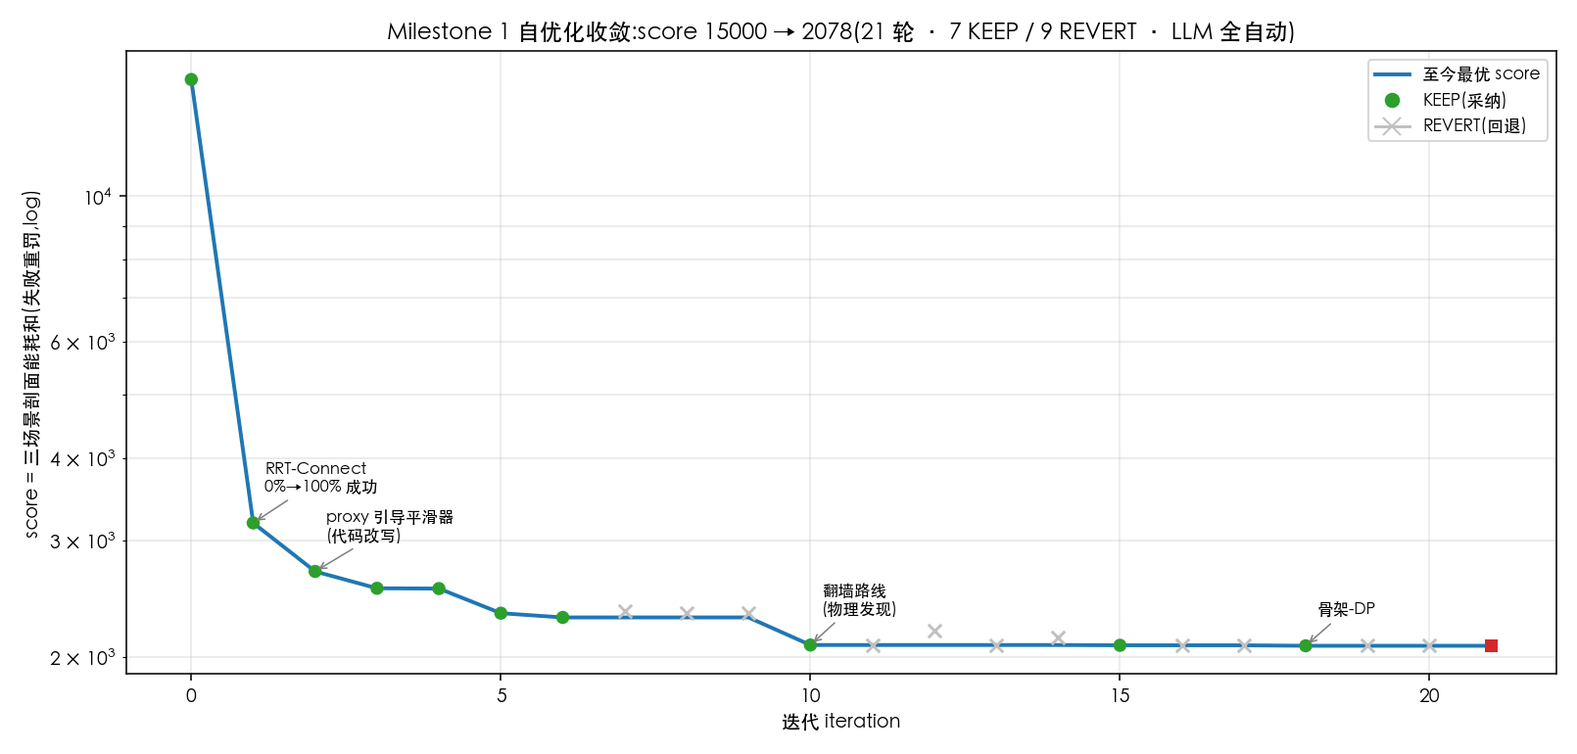
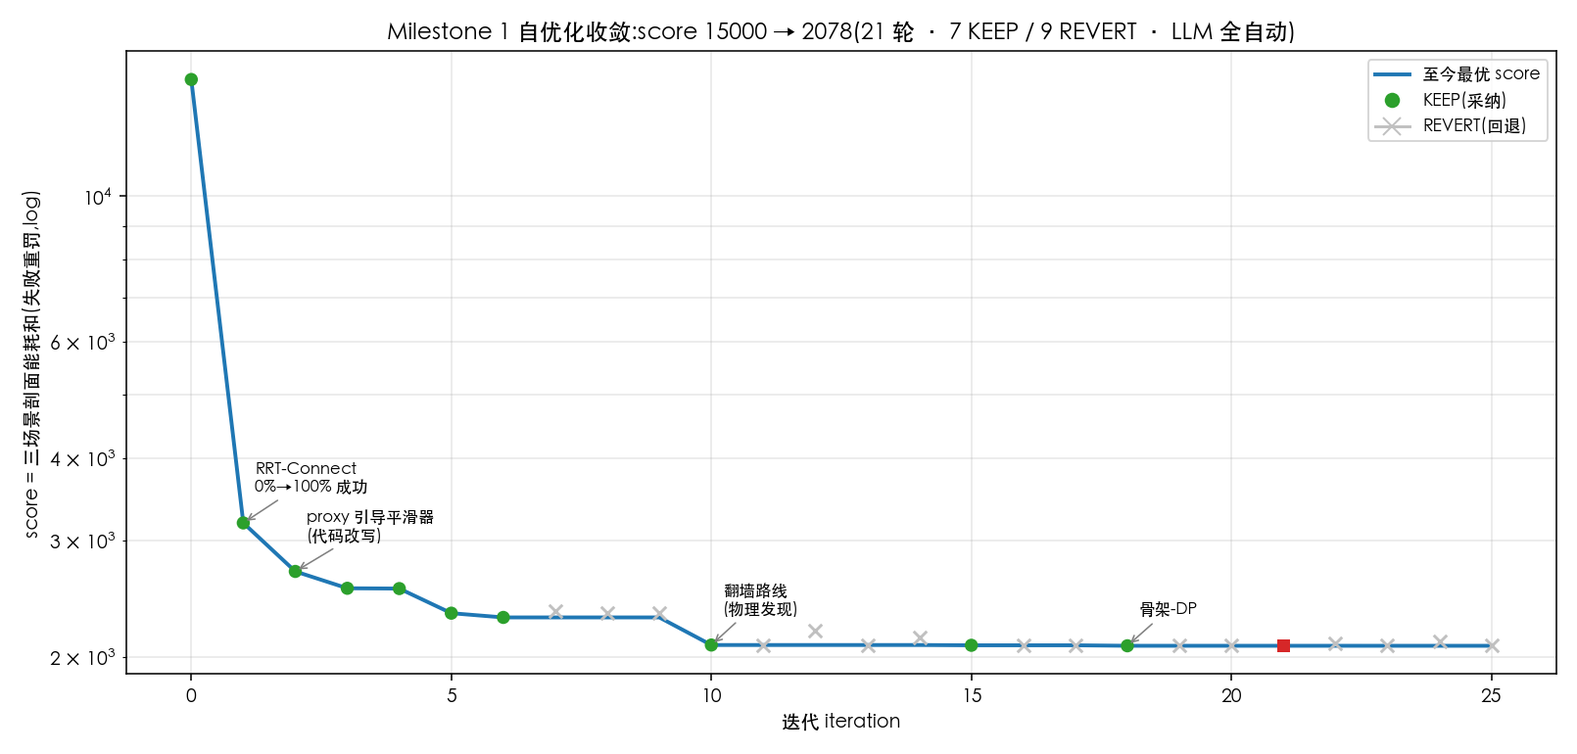
Phase B: open sampler injection point; 4 sampler candidates (all REVERT); honest negative result
candidate.py: sample(ctx) 采样器进化目标(可逃 z-clamp)+ 沙箱/契约; physics_eval.evaluate 加 sampler_src(同护栏)
iter22-25 采样器候选全REVERT,best仍2078.4——扩动作空间未带来改进,瓶颈=物理家族地板
KNOWLEDGE.md + 图/HTML 更新

diff --git a/autoresearch/experiments/report_ms1.html b/autoresearch/experiments/report_ms1.html
@@ -38,7 +38,7 @@
 
 <h2>迭代账本(每步:假设 → 评测 → 采纳/回退)</h2>
 <table><tr><th>#</th><th>动作</th><th>score</th><th>成功率</th><th>决定</th><th>hypothesis(节选)</th></tr>
-<tr style="background:#eaf7ee"><td>0</td><td>default</td><td style="text-align:right">15000.0</td><td>0.0</td><td><b style="color:#1b7f37">KEEP</b></td><td style="font-size:12px;color:#555"></td></tr><tr style="background:#eaf7ee"><td>1</td><td>use_rrt_connect=true</td><td style="text-align:right">3191.2</td><td>1.0</td><td><b style="color:#1b7f37">KEEP</b></td><td style="font-size:12px;color:#555">A_straight 0% because unidirectional RRT* can&#x27;t thread the ~110m side-corridor detour within the 3s timeout (z-sampling clamped to [-6,0] forbids over-wall route; goal_sample_rate is a dead knob, _smart_sample hardcodes 0.2). Bidirectional RRT-Connect&#x27;s greedy connect marches through the wide corridor reliably -&gt; converts 15000 in failure penalties into real profile energies.</td></tr><tr style="background:#eaf7ee"><td>2</td><td>smoother: proxy-guided local search (remove/move/chamfer/split)</td><td style="text-align:right">2694.3</td><td>1.0</td><td><b style="color:#1b7f37">KEEP</b></td><td style="font-size:12px;color:#555">A_straight wastes ~930J/run because sharp corners (e.g. 98.6deg overshoot corner at x=74.7) cap entire adjacent long legs at v_turn=sqrt(3*min(L1,L2)/theta). Metric rewards few corners with long balanced legs, NOT fine arcs (chords shrink min(L) -&gt; slower). Proxy-guided moves (vertex remove/relocate, coarse chamfer, collinear split to isolate slow zones) with e/m(v)~150/v-1.6 fit should recover most of it.</td></tr><tr style="background:#eaf7ee"><td>3</td><td>smoother v3: +split-bend compound move, relocation reach 16m + diagonals</td><td style="text-align:right">2540.4</td><td>1.0</td><td><b style="color:#1b7f37">KEEP</b></td><td style="font-size:12px;color:#555">A residual ~480J sits in the 2 topologically unavoidable corners (~70-82deg final corner caps ~58m at ~7m/s). Single moves can&#x27;t split a sharp corner into two gentle long-legged ones (collinear split alone shrinks minL -&gt; proxy worse -&gt; rejected = local minimum); compound insert+perpendicular-bend in one candidate escapes it.</td></tr><tr style="background:#eaf7ee"><td>4</td><td>smoother v4: +double-bend move (replace sharp corner with two spread vertices)</td><td style="text-align:right">2537.8</td><td>1.0</td><td><b style="color:#1b7f37">KEEP</b></td><td style="font-size:12px;color:#555">Remaining sharp corridor corners (~70deg, vcap~7) need two-gentle-corner geometry; single insertions reach it only via multi-move sequences the greedy proxy rejects midway; a one-candidate double-bend (remove P, insert Q1,Q2 outward) reaches it directly.</td></tr><tr style="background:#eaf7ee"><td>5</td><td>step_size=3.0</td><td style="text-align:right">2328.9</td><td>1.0</td><td><b style="color:#1b7f37">KEEP</b></td><td style="font-size:12px;color:#555">Smoother saturated; residual is raw-skeleton quality. Longer greedy RRT-Connect strides (3.0m vs 1.5m) give straighter skeletons and better topology in the ~8-10m corridors -&gt; lower post-smoothing energy at same success.</td></tr><tr style="background:#eaf7ee"><td>6</td><td>step_size=4.5</td><td style="text-align:right">2294.8</td><td>1.0</td><td><b style="color:#1b7f37">KEEP</b></td><td style="font-size:12px;color:#555">step_size ladder continues: 3.0 gained 8.2%, corridors ~8-10m still admit 4.5m strides -&gt; straighter skeletons.</td></tr><tr style="background:#fff"><td>7</td><td>step_size=6.0</td><td style="text-align:right">2347.5</td><td>1.0</td><td><b style="color:#999">REVERT</b></td><td style="font-size:12px;color:#555">If skeleton straightness still binds, 6.0m strides gain a bit more; if the corner-geometry floor dominates, this rung flatlines.</td></tr><tr style="background:#fff"><td>8</td><td>smoother v5: 3D climb/descent proxy + over-wall macro-route probe (REJECTED)</td><td style="text-align:right">2327.9</td><td>1.0</td><td><b style="color:#999">REVERT</b></td><td style="font-size:12px;color:#555">Frozen BEMT makes descent nearly free (desc@12=1.6 J/m vs level 8.2, climb 15.1) -&gt; over-wall climb-cruise-descend template (true 582J idealized) should beat the 93m lateral detour (1205J); inject templates + climb-aware proxy.</td></tr><tr style="background:#fff"><td>9</td><td>smoother v6: late-descent templates + conservative descent credit (REJECTED)</td><td style="text-align:right">2328.6</td><td>1.0</td><td><b style="color:#999">REVERT</b></td><td style="font-size:12px;color:#555">v5&#x27;s probe failed on template feasibility (descent through Row4); f2 in {0.8..0.95} + K_DN=1.0/floor15 + capped z-steps should let the over-wall route fire.</td></tr><tr style="background:#eaf7ee"><td>10</td><td>smoother v7: polish-before-compare over-wall probe (3D ranker) [episode boundary: lit search distilled into KNOWLEDGE]</td><td style="text-align:right">2084.0</td><td>1.0</td><td><b style="color:#1b7f37">KEEP</b></td><td style="font-size:12px;color:#555">Over-wall (~840J true) loses to lateral (1009J) only in raw-template proxy form (steep-descent corner phantom-caps the cruise leg); collision-check first, polish feasible templates with the unchanged v4 sweeps, compare via climb-aware 3D ranker -&gt; probe fires where it truly wins.</td></tr><tr style="background:#fff"><td>11</td><td>smoother v8: 3D-aware re-polish after level polish (NO-OP)</td><td style="text-align:right">2084.0</td><td>1.0</td><td><b style="color:#999">REVERT</b></td><td style="font-size:12px;color:#555">A&#x27;s over-wall path wastes ~150J on a level-proxy-shaped hump (z=-15.2 vs needed -11.5, climb ~18.6 J/vertical-m); re-polishing the adopted route with the 3D proxy should lower it.</td></tr><tr style="background:#fff"><td>12</td><td>smoother v9: 3D-proxy polish from raw template (REJECTED)</td><td style="text-align:right">2191.8</td><td>1.0</td><td><b style="color:#999">REVERT</b></td><td style="font-size:12px;color:#555">The -15.2m hump exists because the first polish pass is climb-blind; polishing the raw template directly under the 3D proxy keeps cruise near -11.5 -&gt; A ~700J.</td></tr><tr style="background:#fff"><td>13</td><td>smoother v10: coordinated hump-lowering pass (NO-OP)</td><td style="text-align:right">2084.0</td><td>1.0</td><td><b style="color:#999">REVERT</b></td><td style="font-size:12px;color:#555">A&#x27;s hump wastes ~3.4m climb (~60-90J); coordinated run-lowering (3D-accepted, after level polish) removes it where single-vertex moves hit the apex-corner ridge.</td></tr><tr style="background:#fff"><td>14</td><td>step_size=5.0 [episode 2 boundary: racing-line lit + corner-conservation law distilled]</td><td style="text-align:right">2142.3</td><td>1.0</td><td><b style="color:#999">REVERT</b></td><td style="font-size:12px;color:#555">With v7&#x27;s probe decoupling A from skeleton quality, B/C dominate step_size sensitivity; their optimum may sit between the tested 4.5 and 6.0 rungs.</td></tr><tr style="background:#eaf7ee"><td>15</td><td>smoother v11: finer probe grid (zc down to -11.2, 5x4 f-grid, top-3 polish)</td><td style="text-align:right">2082.0</td><td>1.0</td><td><b style="color:#1b7f37">KEEP</b></td><td style="font-size:12px;color:#555">A&#x27;s template starts from a coarse grid; finer/lower zc seeds the polish in a slightly better basin (~10-30J).</td></tr><tr style="background:#fff"><td>16</td><td>max_iterations=10000 (knob resolution probe)</td><td style="text-align:right">2082.0</td><td>1.0</td><td><b style="color:#999">REVERT</b></td><td style="font-size:12px;color:#555">RRT-Connect converges far below 5000 iters under the 3s timeout with fixed seeds -&gt; deterministic no-op; confirming closes the last open Layer-1 parameter.</td></tr><tr style="background:#fff"><td>17</td><td>smoother v12: extended f-grid edges f1=0.05, f2=0.97 (NO-OP)</td><td style="text-align:right">2082.0</td><td>1.0</td><td><b style="color:#999">REVERT</b></td><td style="font-size:12px;color:#555">The f-grid may clip the basin edge; gentler-climb/later-descent seeds could give the polish a better start.</td></tr><tr style="background:#eaf7ee"><td>18</td><td>smoother v13: skeleton-DP probe (global corner placement over raw vertices)</td><td style="text-align:right">2078.4</td><td>1.0</td><td><b style="color:#1b7f37">KEEP</b></td><td style="font-size:12px;color:#555">Greedy farthest-first shortcut fixes corners at visibility-jump artifacts; a corner-cap-aware DP over raw polyline vertices finds better min(L)/theta skeletons for B/C; 3D-rank adoption gate protects A.</td></tr><tr style="background:#fff"><td>19</td><td>smoother v14: sweep cap 6-&gt;12 (saturation check, NO-OP)</td><td style="text-align:right">2078.4</td><td>1.0</td><td><b style="color:#999">REVERT</b></td><td style="font-size:12px;color:#555">Over-wall template polish might still be improving at the 6-sweep cap; raising to 12 finds residual A gains or confirms convergence.</td></tr><tr style="background:#fff"><td>20</td><td>smoother v15: relocation reach 24m (NO-OP) [episode 3 boundary: seed-overfitting lit distilled]</td><td style="text-align:right">2078.4</td><td>1.0</td><td><b style="color:#999">REVERT</b></td><td style="font-size:12px;color:#555">16m relocation cap may truncate far overshoot fixes on some seeds.</td></tr><tr style="background:#fdecea"><td>21</td><td>Milestone 1 (episode 3): summary + held-out validation</td><td style="text-align:right">2078.4</td><td>1.0</td><td><b style="color:#c0392b">MILESTONE</b></td><td style="font-size:12px;color:#555"></td></tr>
+<tr style="background:#eaf7ee"><td>0</td><td>default</td><td style="text-align:right">15000.0</td><td>0.0</td><td><b style="color:#1b7f37">KEEP</b></td><td style="font-size:12px;color:#555"></td></tr><tr style="background:#eaf7ee"><td>1</td><td>use_rrt_connect=true</td><td style="text-align:right">3191.2</td><td>1.0</td><td><b style="color:#1b7f37">KEEP</b></td><td style="font-size:12px;color:#555">A_straight 0% because unidirectional RRT* can&#x27;t thread the ~110m side-corridor detour within the 3s timeout (z-sampling clamped to [-6,0] forbids over-wall route; goal_sample_rate is a dead knob, _smart_sample hardcodes 0.2). Bidirectional RRT-Connect&#x27;s greedy connect marches through the wide corridor reliably -&gt; converts 15000 in failure penalties into real profile energies.</td></tr><tr style="background:#eaf7ee"><td>2</td><td>smoother: proxy-guided local search (remove/move/chamfer/split)</td><td style="text-align:right">2694.3</td><td>1.0</td><td><b style="color:#1b7f37">KEEP</b></td><td style="font-size:12px;color:#555">A_straight wastes ~930J/run because sharp corners (e.g. 98.6deg overshoot corner at x=74.7) cap entire adjacent long legs at v_turn=sqrt(3*min(L1,L2)/theta). Metric rewards few corners with long balanced legs, NOT fine arcs (chords shrink min(L) -&gt; slower). Proxy-guided moves (vertex remove/relocate, coarse chamfer, collinear split to isolate slow zones) with e/m(v)~150/v-1.6 fit should recover most of it.</td></tr><tr style="background:#eaf7ee"><td>3</td><td>smoother v3: +split-bend compound move, relocation reach 16m + diagonals</td><td style="text-align:right">2540.4</td><td>1.0</td><td><b style="color:#1b7f37">KEEP</b></td><td style="font-size:12px;color:#555">A residual ~480J sits in the 2 topologically unavoidable corners (~70-82deg final corner caps ~58m at ~7m/s). Single moves can&#x27;t split a sharp corner into two gentle long-legged ones (collinear split alone shrinks minL -&gt; proxy worse -&gt; rejected = local minimum); compound insert+perpendicular-bend in one candidate escapes it.</td></tr><tr style="background:#eaf7ee"><td>4</td><td>smoother v4: +double-bend move (replace sharp corner with two spread vertices)</td><td style="text-align:right">2537.8</td><td>1.0</td><td><b style="color:#1b7f37">KEEP</b></td><td style="font-size:12px;color:#555">Remaining sharp corridor corners (~70deg, vcap~7) need two-gentle-corner geometry; single insertions reach it only via multi-move sequences the greedy proxy rejects midway; a one-candidate double-bend (remove P, insert Q1,Q2 outward) reaches it directly.</td></tr><tr style="background:#eaf7ee"><td>5</td><td>step_size=3.0</td><td style="text-align:right">2328.9</td><td>1.0</td><td><b style="color:#1b7f37">KEEP</b></td><td style="font-size:12px;color:#555">Smoother saturated; residual is raw-skeleton quality. Longer greedy RRT-Connect strides (3.0m vs 1.5m) give straighter skeletons and better topology in the ~8-10m corridors -&gt; lower post-smoothing energy at same success.</td></tr><tr style="background:#eaf7ee"><td>6</td><td>step_size=4.5</td><td style="text-align:right">2294.8</td><td>1.0</td><td><b style="color:#1b7f37">KEEP</b></td><td style="font-size:12px;color:#555">step_size ladder continues: 3.0 gained 8.2%, corridors ~8-10m still admit 4.5m strides -&gt; straighter skeletons.</td></tr><tr style="background:#fff"><td>7</td><td>step_size=6.0</td><td style="text-align:right">2347.5</td><td>1.0</td><td><b style="color:#999">REVERT</b></td><td style="font-size:12px;color:#555">If skeleton straightness still binds, 6.0m strides gain a bit more; if the corner-geometry floor dominates, this rung flatlines.</td></tr><tr style="background:#fff"><td>8</td><td>smoother v5: 3D climb/descent proxy + over-wall macro-route probe (REJECTED)</td><td style="text-align:right">2327.9</td><td>1.0</td><td><b style="color:#999">REVERT</b></td><td style="font-size:12px;color:#555">Frozen BEMT makes descent nearly free (desc@12=1.6 J/m vs level 8.2, climb 15.1) -&gt; over-wall climb-cruise-descend template (true 582J idealized) should beat the 93m lateral detour (1205J); inject templates + climb-aware proxy.</td></tr><tr style="background:#fff"><td>9</td><td>smoother v6: late-descent templates + conservative descent credit (REJECTED)</td><td style="text-align:right">2328.6</td><td>1.0</td><td><b style="color:#999">REVERT</b></td><td style="font-size:12px;color:#555">v5&#x27;s probe failed on template feasibility (descent through Row4); f2 in {0.8..0.95} + K_DN=1.0/floor15 + capped z-steps should let the over-wall route fire.</td></tr><tr style="background:#eaf7ee"><td>10</td><td>smoother v7: polish-before-compare over-wall probe (3D ranker) [episode boundary: lit search distilled into KNOWLEDGE]</td><td style="text-align:right">2084.0</td><td>1.0</td><td><b style="color:#1b7f37">KEEP</b></td><td style="font-size:12px;color:#555">Over-wall (~840J true) loses to lateral (1009J) only in raw-template proxy form (steep-descent corner phantom-caps the cruise leg); collision-check first, polish feasible templates with the unchanged v4 sweeps, compare via climb-aware 3D ranker -&gt; probe fires where it truly wins.</td></tr><tr style="background:#fff"><td>11</td><td>smoother v8: 3D-aware re-polish after level polish (NO-OP)</td><td style="text-align:right">2084.0</td><td>1.0</td><td><b style="color:#999">REVERT</b></td><td style="font-size:12px;color:#555">A&#x27;s over-wall path wastes ~150J on a level-proxy-shaped hump (z=-15.2 vs needed -11.5, climb ~18.6 J/vertical-m); re-polishing the adopted route with the 3D proxy should lower it.</td></tr><tr style="background:#fff"><td>12</td><td>smoother v9: 3D-proxy polish from raw template (REJECTED)</td><td style="text-align:right">2191.8</td><td>1.0</td><td><b style="color:#999">REVERT</b></td><td style="font-size:12px;color:#555">The -15.2m hump exists because the first polish pass is climb-blind; polishing the raw template directly under the 3D proxy keeps cruise near -11.5 -&gt; A ~700J.</td></tr><tr style="background:#fff"><td>13</td><td>smoother v10: coordinated hump-lowering pass (NO-OP)</td><td style="text-align:right">2084.0</td><td>1.0</td><td><b style="color:#999">REVERT</b></td><td style="font-size:12px;color:#555">A&#x27;s hump wastes ~3.4m climb (~60-90J); coordinated run-lowering (3D-accepted, after level polish) removes it where single-vertex moves hit the apex-corner ridge.</td></tr><tr style="background:#fff"><td>14</td><td>step_size=5.0 [episode 2 boundary: racing-line lit + corner-conservation law distilled]</td><td style="text-align:right">2142.3</td><td>1.0</td><td><b style="color:#999">REVERT</b></td><td style="font-size:12px;color:#555">With v7&#x27;s probe decoupling A from skeleton quality, B/C dominate step_size sensitivity; their optimum may sit between the tested 4.5 and 6.0 rungs.</td></tr><tr style="background:#eaf7ee"><td>15</td><td>smoother v11: finer probe grid (zc down to -11.2, 5x4 f-grid, top-3 polish)</td><td style="text-align:right">2082.0</td><td>1.0</td><td><b style="color:#1b7f37">KEEP</b></td><td style="font-size:12px;color:#555">A&#x27;s template starts from a coarse grid; finer/lower zc seeds the polish in a slightly better basin (~10-30J).</td></tr><tr style="background:#fff"><td>16</td><td>max_iterations=10000 (knob resolution probe)</td><td style="text-align:right">2082.0</td><td>1.0</td><td><b style="color:#999">REVERT</b></td><td style="font-size:12px;color:#555">RRT-Connect converges far below 5000 iters under the 3s timeout with fixed seeds -&gt; deterministic no-op; confirming closes the last open Layer-1 parameter.</td></tr><tr style="background:#fff"><td>17</td><td>smoother v12: extended f-grid edges f1=0.05, f2=0.97 (NO-OP)</td><td style="text-align:right">2082.0</td><td>1.0</td><td><b style="color:#999">REVERT</b></td><td style="font-size:12px;color:#555">The f-grid may clip the basin edge; gentler-climb/later-descent seeds could give the polish a better start.</td></tr><tr style="background:#eaf7ee"><td>18</td><td>smoother v13: skeleton-DP probe (global corner placement over raw vertices)</td><td style="text-align:right">2078.4</td><td>1.0</td><td><b style="color:#1b7f37">KEEP</b></td><td style="font-size:12px;color:#555">Greedy farthest-first shortcut fixes corners at visibility-jump artifacts; a corner-cap-aware DP over raw polyline vertices finds better min(L)/theta skeletons for B/C; 3D-rank adoption gate protects A.</td></tr><tr style="background:#fff"><td>19</td><td>smoother v14: sweep cap 6-&gt;12 (saturation check, NO-OP)</td><td style="text-align:right">2078.4</td><td>1.0</td><td><b style="color:#999">REVERT</b></td><td style="font-size:12px;color:#555">Over-wall template polish might still be improving at the 6-sweep cap; raising to 12 finds residual A gains or confirms convergence.</td></tr><tr style="background:#fff"><td>20</td><td>smoother v15: relocation reach 24m (NO-OP) [episode 3 boundary: seed-overfitting lit distilled]</td><td style="text-align:right">2078.4</td><td>1.0</td><td><b style="color:#999">REVERT</b></td><td style="font-size:12px;color:#555">16m relocation cap may truncate far overshoot fixes on some seeds.</td></tr><tr style="background:#fdecea"><td>21</td><td>Milestone 1 (episode 3): summary + held-out validation</td><td style="text-align:right">2078.4</td><td>1.0</td><td><b style="color:#c0392b">MILESTONE</b></td><td style="font-size:12px;color:#555"></td></tr><tr style="background:#fff"><td>22</td><td>sampler v1: z-escape global</td><td style="text-align:right">2094.2</td><td>1.0</td><td><b style="color:#999">REVERT</b></td><td style="font-size:12px;color:#555">逃 z-clamp 全局采样,使 RRT-Connect 原生找翻墙路线(而非靠平滑器探针)</td></tr><tr style="background:#fff"><td>23</td><td>sampler v2: z-escape targeted</td><td style="text-align:right">2078.4</td><td>1.0</td><td><b style="color:#999">REVERT</b></td><td style="font-size:12px;color:#555">只在目标基本正前方(|Δy|&lt;8,即场景A直穿)时逃z,避免污染B/C横向绕行</td></tr><tr style="background:#fff"><td>24</td><td>sampler v3: goal-bias + targeted z</td><td style="text-align:right">2108.4</td><td>1.0</td><td><b style="color:#999">REVERT</b></td><td style="font-size:12px;color:#555">10%采目标 + 场景A定向逃z,加速双向树连通同时使能翻墙</td></tr><tr style="background:#fff"><td>25</td><td>sampler v4: vertical-corridor bias</td><td style="text-align:right">2078.4</td><td>1.0</td><td><b style="color:#999">REVERT</b></td><td style="font-size:12px;color:#555">场景A定向逃z时,偏置到高空巡航带(z∈[-15,-11],翻墙apex),减少无效中层采样</td></tr>
 </table>
 
 <h2>研究知识库 / 洞见(KNOWLEDGE.md)</h2>

diff --git a/autoresearch/physics_eval.py b/autoresearch/physics_eval.py
@@ -163,7 +163,7 @@ def _path_collision_free(path, esdf, safety_margin, step=0.25):
 
 
 def evaluate(overrides: dict, runs: int = 3, seed0: int = 0, smoother_src=None,
-             scenarios=None, verbose=False):
+             sampler_src=None, scenarios=None, verbose=False):
     """
     Phase A 诚实评测器:地面约束地图 + 速度剖面能量(转弯限速,v*) + 独立碰撞复核。
     仍冻结 BEMT/kinodynamic/尺子;overrides 只应含 Layer-1 可动键。
@@ -190,20 +190,43 @@ def evaluate(overrides: dict, runs: int = 3, seed0: int = 0, smoother_src=None,
                 "detail": {}, "vstar": vstar, "_bad": reason}
 
     # 代码候选:AST 沙箱 + 契约测试 + 崩溃/超时守卫(机械强制,不靠自觉)
-    orig = RRTStar._smooth_path
+    orig_smooth = RRTStar._smooth_path
+    orig_rs = RRTStar._random_sample
+    orig_ss = RRTStar._smart_sample
+    orig_cb = RRTStar._compute_sampling_bounds
+    has_code = (smoother_src is not None) or (sampler_src is not None)
+
     if smoother_src is not None:
         ok, reason = sandbox.check_code(smoother_src)
         if not ok:
-            return _bad(f"INVALID:{reason}")
+            return _bad(f"INVALID(smoother):{reason}")
         try:
-            fn = cand.load_smoother(smoother_src)
-            cand.contract_test(fn)
+            fn = cand.load_smoother(smoother_src); cand.contract_test(fn)
         except Exception as e:
-            return _bad(f"CONTRACT:{type(e).__name__}:{e}")
+            return _bad(f"CONTRACT(smoother):{type(e).__name__}:{e}")
         RRTStar._smooth_path = cand.make_patch_method(fn)
 
+    if sampler_src is not None:
+        ok, reason = sandbox.check_code(sampler_src)
+        if not ok:
+            return _bad(f"INVALID(sampler):{reason}")
+        try:
+            sfn = cand.load_sampler(sampler_src); cand.contract_test_sampler(sfn)
+        except Exception as e:
+            return _bad(f"CONTRACT(sampler):{type(e).__name__}:{e}")
+        rs_patch = cand.sampler_random_patch(sfn)
+        def _cb_wrap(self, s, g, _orig=orig_cb):
+            self._samp_start = s; self._samp_goal = g
+            return _orig(self, s, g)
+        def _ss_patch(self, start, goal, nodes, iteration, _rs=rs_patch):
+            self._samp_start = start; self._samp_goal = goal; self._samp_iter = iteration
+            return _rs(self)
+        RRTStar._random_sample = rs_patch
+        RRTStar._smart_sample = _ss_patch
+        RRTStar._compute_sampling_bounds = _cb_wrap
+
     detail = {}
-    guard = sandbox.time_limit(300) if smoother_src is not None else contextlib.nullcontext()
+    guard = sandbox.time_limit(300) if has_code else contextlib.nullcontext()
     try:
         with guard:
             for sc in scs:
@@ -222,7 +245,10 @@ def evaluate(overrides: dict, runs: int = 3, seed0: int = 0, smoother_src=None,
     except Exception as e:
         return _bad(f"CRASH:{type(e).__name__}:{e}")
     finally:
-        RRTStar._smooth_path = orig
+        RRTStar._smooth_path = orig_smooth
+        RRTStar._random_sample = orig_rs
+        RRTStar._smart_sample = orig_ss
+        RRTStar._compute_sampling_bounds = orig_cb
 
     PENALTY = 3000.0
     contribs, all_ok, min_s = [], True, 1.0

diff --git a/autoresearch/candidate.py b/autoresearch/candidate.py
@@ -89,3 +89,64 @@ def contract_test(smoother_fn) -> None:
 class _DummyConfig:
     safety_margin = 1.0
     dubins_turning_radius = 1.5
+
+
+# ============================================================
+# Phase B: 采样器进化目标 sample(ctx)
+# ============================================================
+# 契约:def sample(ctx) -> np.ndarray[3]
+#   ctx.rng               : np.random(已按 seed 播种,保持确定性)
+#   ctx.bounds_min/max    : 全网格边界(可用来逃出 z-clamp 实现翻墙采样)
+#   ctx.local_bounds_min/max : 现有局部采样框(z 被夹在起终点±3m —— 禁翻墙的根源)
+#   ctx.start/goal/config/iteration
+# 返回的点会被裁剪到全网格 bounds 内(防越界),但不裁到 local(允许翻墙)。
+class SampleCtx:
+    __slots__ = ("rng", "bounds_min", "bounds_max", "local_bounds_min",
+                 "local_bounds_max", "start", "goal", "config", "iteration")
+
+    def __init__(self, **kw):
+        for k, v in kw.items():
+            setattr(self, k, v)
+
+
+DEFAULT_SAMPLER_SRC = '''
+def sample(ctx):
+    """默认:局部框内均匀采样(= 现有 _random_sample,含 z-clamp)。"""
+    return ctx.rng.uniform(ctx.local_bounds_min, ctx.local_bounds_max)
+'''
+
+
+def load_sampler(src: str):
+    ns = {"np": np, "numpy": np}
+    exec(compile(src, "<candidate_sampler>", "exec"), ns)
+    fn = ns.get("sample")
+    if fn is None or not callable(fn):
+        raise ValueError("candidate code must define a callable `sample(ctx)`")
+    return fn
+
+
+def sampler_random_patch(fn):
+    """把 sample(ctx) 包成 RRTStar._random_sample(self)。"""
+    def _patched(self):
+        ctx = SampleCtx(
+            rng=np.random,
+            bounds_min=self.bounds_min, bounds_max=self.bounds_max,
+            local_bounds_min=self.local_bounds_min, local_bounds_max=self.local_bounds_max,
+            start=getattr(self, "_samp_start", None), goal=getattr(self, "_samp_goal", None),
+            config=self.config, iteration=getattr(self, "_samp_iter", 0),
+        )
+        p = np.asarray(fn(ctx), dtype=float).reshape(3)
+        return np.clip(p, self.bounds_min, self.bounds_max)   # 只裁全网格,不裁 local
+    return _patched
+
+
+def contract_test_sampler(fn) -> None:
+    """契约测试:返回 3D 有限点。"""
+    ctx = SampleCtx(rng=np.random,
+                    bounds_min=np.array([-10., -30., -15.]), bounds_max=np.array([80., 30., 5.]),
+                    local_bounds_min=np.array([0., -5., -6.]), local_bounds_max=np.array([70., 5., 0.]),
+                    start=np.array([0., 0., -3.]), goal=np.array([70., 0., -3.]),
+                    config=_DummyConfig(), iteration=1)
+    for _ in range(5):
+        p = np.asarray(fn(ctx), dtype=float).reshape(3)
+        assert p.shape == (3,) and np.all(np.isfinite(p)), "sample must return finite 3D point"

diff --git a/autoresearch/KNOWLEDGE.md b/autoresearch/KNOWLEDGE.md
@@ -37,3 +37,12 @@
 - **[Ep3] 种子过拟合风险(算法配置文献)**:固定种子调参会"过拟合到该种子"——训练种子上优、新种子上劣(arXiv:1705.06058 算法配置陷阱;arXiv:2302.14422 SBMP 调参用 held-out 验证)。本 loop 全程只用 seed 0-2 训练;**任何"地板已到"的结论必须过 seed_val=100 的留出验证**才算数。
 - **[Ep3] 骨架选择:贪心捷径+局部修复 ≈ 全局 DP(差距仅 ~4J/B 场景)**:对 raw 顶点做 corner-cap-aware 二阶 DP 选骨架,只在 B 上赢 3.6J(A 被模板概率主导、C 拓扑受限)。平滑器 sweep 6 趟内全收敛(12 趟 no-op)。
 - **[Ep1] RRT-Connect 骨架質量由 step_size 主导**:1.5→3.0(−8.2%)→4.5(−1.5%)→6.0(反弹 +2.3%),峰值 4.5m。weight_*/search_radius 在 RRT-Connect 分支是死旋钮;goal_sample_rate 在 _smart_sample 里被硬编码 0.2 取代,也是死旋钮。
+
+## Phase B(iter 22-25,采样器注入,2026-07-08)
+开放采样器注入点 `sample(ctx)`(可逃 `_compute_sampling_bounds` 的 z-clamp,使 RRT-Connect 原生翻墙)。**4 个候选全 REVERT,best 仍 2078.4**:
+- v1 z-escape 全局 → 2094(z 噪声污染 B/C)
+- v2 z-escape 定向(仅|Δy|<8 的场景A)→ 2078.4(=最优:让 RRT-Connect **原生**找到翻墙,但 A 能耗已被 v13 平滑器压到 ~797J 家族地板,原生采样无净增益、也没损 B/C)
+- v3 goal-bias+定向 → 2108(更差)
+- v4 垂直走廊偏置 → 2078.4(=最优)
+
+**结论(诚实负结果)**:扩大动作空间到采样器**未带来算法改进**。瓶颈不是"采样器找不到翻墙"(平滑器已能找到),而是**物理家族地板**(A≈797J 的爬升税)——多条算法路径(平滑器探针 / 原生采样)殊途同归到同一地板。**更多动作自由 ≠ 更好,当问题已达地板时。** 要突破需 Layer-1 之外的自由度(松绑物理/kinodynamic 限制,均属冻结层,不可动)。
